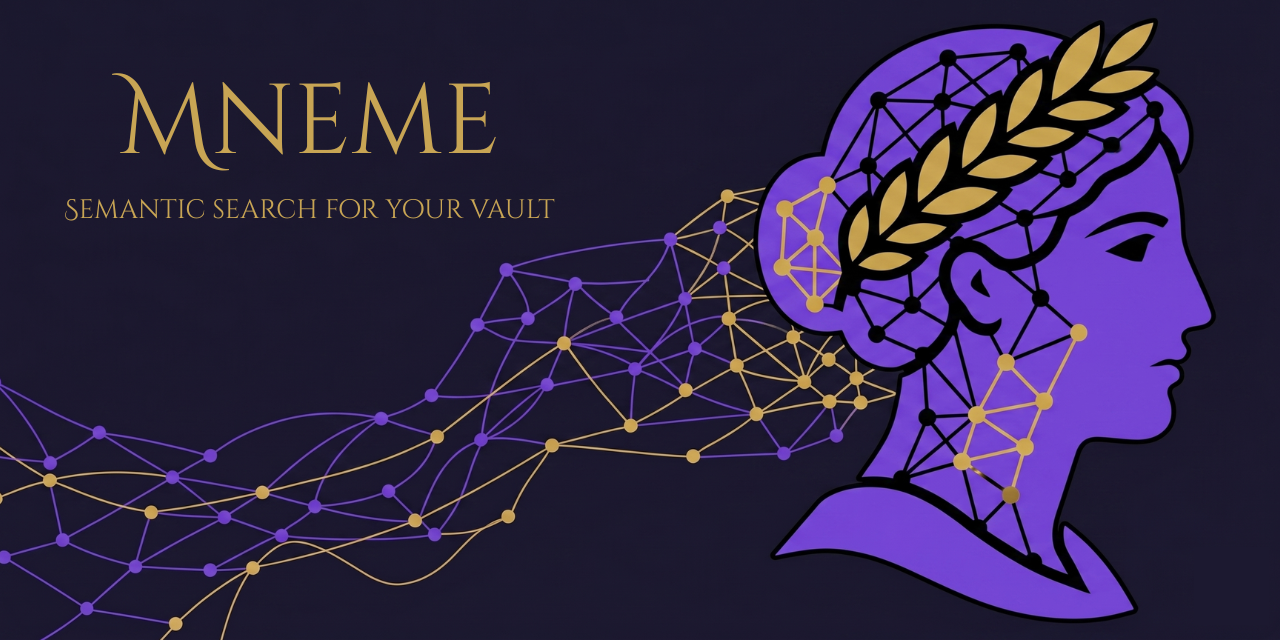
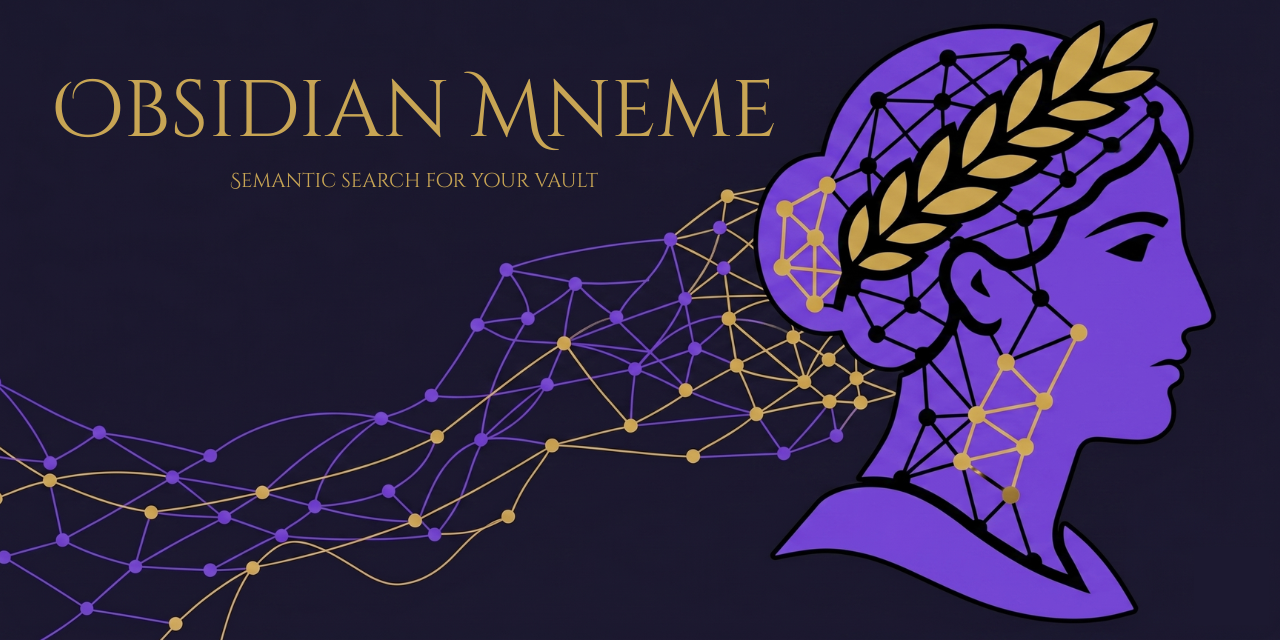
Rebrand: Obsidian Mneme (public name) + disambiguation from mneme-cli
Context: there's an unrelated PyPI package `mneme-cli` by @tolism in the
same rough space (documents → searchable second brain) that predates this
release by ~2 weeks. Its actual domain is medical-device compliance (EU
MDR / ISO 13485) — completely different use case and tech stack (BM25-only
FTS5, no embeddings, no MCP). But the name collision is real.

Resolution: keep the name Mneme internally, brand publicly as
"Obsidian Mneme" everywhere visitors see the project. PyPI package name
`obsidian-mneme` already differentiates at install-time.

Changes:
- README title changes to "Obsidian Mneme" + explicit disambiguation
  block pointing to mneme-cli for visitors arriving via name search
- Banner (design/banner.png): updated to "OBSIDIAN MNEME" wordmark
- Plugin README title to "Obsidian Mneme — Plugin"
- All github.com/MakaveliGER/mneme URLs → /obsidian-mneme in README,
  CHANGELOG, pyproject.toml, plugin README
- Dist rebuilt + twine check --strict PASSED

Changed region(s): [[0.0312, 0.125, 0.5938, 0.3438]]

diff --git a/obsidian-plugin/README.md b/obsidian-plugin/README.md
@@ -1,6 +1,6 @@
-# Mneme — Obsidian Plugin
+# Obsidian Mneme — Plugin
 
-Semantic vault search inside Obsidian. This plugin is the companion UI for [Mneme](https://github.com/MakaveliGER/mneme), a local MCP server for semantic search over your vault.
+Semantic vault search inside Obsidian. This plugin is the companion UI for [Obsidian Mneme](https://github.com/MakaveliGER/obsidian-mneme), a local MCP server for semantic search over your vault.
 
 **What it does:**
 - Starts a local Mneme HTTP server when Obsidian opens (optional, on by default)
@@ -18,7 +18,7 @@ Semantic vault search inside Obsidian. This plugin is the companion UI for [Mnem
 
 ### Option A — Pre-built release (recommended for most users)
 
-1. Download the latest release from [github.com/MakaveliGER/mneme/releases](https://github.com/MakaveliGER/mneme/releases) — get the three files:
+1. Download the latest release from [github.com/MakaveliGER/obsidian-mneme/releases](https://github.com/MakaveliGER/obsidian-mneme/releases) — get the three files:
    - `main.js`
    - `manifest.json`
    - `styles.css`
@@ -33,8 +33,8 @@ Semantic vault search inside Obsidian. This plugin is the companion UI for [Mnem
 For developers or users who want the bleeding edge:
 
 ```bash
-git clone https://github.com/MakaveliGER/mneme.git
-cd mneme/obsidian-plugin
+git clone https://github.com/MakaveliGER/obsidian-mneme.git
+cd obsidian-mneme/obsidian-plugin
 npm install
 npm run build
 # Then copy main.js + manifest.json + styles.css to <vault>/.obsidian/plugins/mneme/
@@ -51,7 +51,7 @@ pip install obsidian-mneme
 mneme setup                  # run through the wizard, choose HTTP transport
 ```
 
-Full install guide and `mneme setup` details: [main README](https://github.com/MakaveliGER/mneme/blob/main/README.md).
+Full install guide and `mneme setup` details: [main README](https://github.com/MakaveliGER/obsidian-mneme/blob/main/README.md).
 
 ---
 
@@ -101,7 +101,7 @@ Command palette → "Mneme: Reindex vault" for a manual incremental re-index. Fu
 
 **Port conflict** — Plugin tries port 8765 by default. If another app holds it, change **Server Port** in settings.
 
-**Claude Desktop can't see Mneme tools** — The plugin's server and Claude Desktop are separate concerns. The plugin only starts the shared HTTP server; Claude Desktop still needs its `claude_desktop_config.json` pointing at `http://127.0.0.1:8765/mcp`. See the [main README](https://github.com/MakaveliGER/mneme/blob/main/README.md#60-sekunden-quick-start-claude-desktop).
+**Claude Desktop can't see Mneme tools** — The plugin's server and Claude Desktop are separate concerns. The plugin only starts the shared HTTP server; Claude Desktop still needs its `claude_desktop_config.json` pointing at `http://127.0.0.1:8765/mcp`. See the [main README](https://github.com/MakaveliGER/obsidian-mneme/blob/main/README.md#60-sekunden-quick-start-claude-desktop).
 
 ---
 

diff --git a/README.md b/README.md
@@ -1,8 +1,8 @@
 <p align="center">
-  <img src="https://raw.githubusercontent.com/MakaveliGER/mneme/main/design/banner.png" alt="Mneme Banner" width="100%">
+  <img src="https://raw.githubusercontent.com/MakaveliGER/obsidian-mneme/main/design/banner.png" alt="Obsidian Mneme Banner" width="100%">
 </p>
 
-# Mneme
+# Obsidian Mneme
 
 ![Python 3.11+](https://img.shields.io/badge/python-3.11+-blue.svg)
 ![License: MIT](https://img.shields.io/badge/license-MIT-green.svg)
@@ -10,7 +10,9 @@
 
 **Semantische Vault-Suche für Obsidian — komplett lokal, keine API-Keys, keine Cloud.**
 
-Mneme indexiert deine Markdown-Notizen mit BGE-M3 (multilingual) und exponiert sie als [MCP-Server](https://modelcontextprotocol.io/). Deine Claude-Session sucht dann direkt im Vault. Daten verlassen deinen Rechner nicht.
+Obsidian Mneme indexiert deine Markdown-Notizen mit BGE-M3 (multilingual) und exponiert sie als [MCP-Server](https://modelcontextprotocol.io/). Deine Claude-Session sucht dann direkt im Vault. Daten verlassen deinen Rechner nicht.
+
+> **Not to be confused with** [`mneme-cli`](https://pypi.org/project/mneme-cli/) by [@tolism](https://github.com/tolism/mneme) — that's an unrelated regulatory QMS tool for medical-device compliance (EU MDR / ISO 13485). This project is a semantic-search MCP server for personal Obsidian vaults. PyPI package name: **`obsidian-mneme`**.
 
 ---
 
@@ -94,7 +96,7 @@ Das Plugin startet den Mneme-HTTP-Server automatisch wenn Obsidian öffnet, zeig
 **Installation:**
 
 ```
-# 1. Release herunterladen: https://github.com/MakaveliGER/mneme/releases
+# 1. Release herunterladen: https://github.com/MakaveliGER/obsidian-mneme/releases
 #    (main.js, manifest.json, styles.css)
 # 2. Nach <vault>/.obsidian/plugins/mneme/ kopieren
 # 3. Obsidian: Settings → Community Plugins → Mneme aktivieren

diff --git a/CHANGELOG.md b/CHANGELOG.md
@@ -210,7 +210,7 @@ Initial public-facing release.
   AMD on Windows.
 - Golden-dataset evaluator (`mneme eval`) with Hit@k and MRR metrics.
 
-[Unreleased]: https://github.com/MakaveliGER/mneme/compare/v0.3.1...HEAD
-[0.3.1]: https://github.com/MakaveliGER/mneme/releases/tag/v0.3.1
-[0.3.0]: https://github.com/MakaveliGER/mneme/releases/tag/v0.3.0
-[0.2.0]: https://github.com/MakaveliGER/mneme/releases/tag/v0.2.0
+[Unreleased]: https://github.com/MakaveliGER/obsidian-mneme/compare/v0.3.1...HEAD
+[0.3.1]: https://github.com/MakaveliGER/obsidian-mneme/releases/tag/v0.3.1
+[0.3.0]: https://github.com/MakaveliGER/obsidian-mneme/releases/tag/v0.3.0
+[0.2.0]: https://github.com/MakaveliGER/obsidian-mneme/releases/tag/v0.2.0
